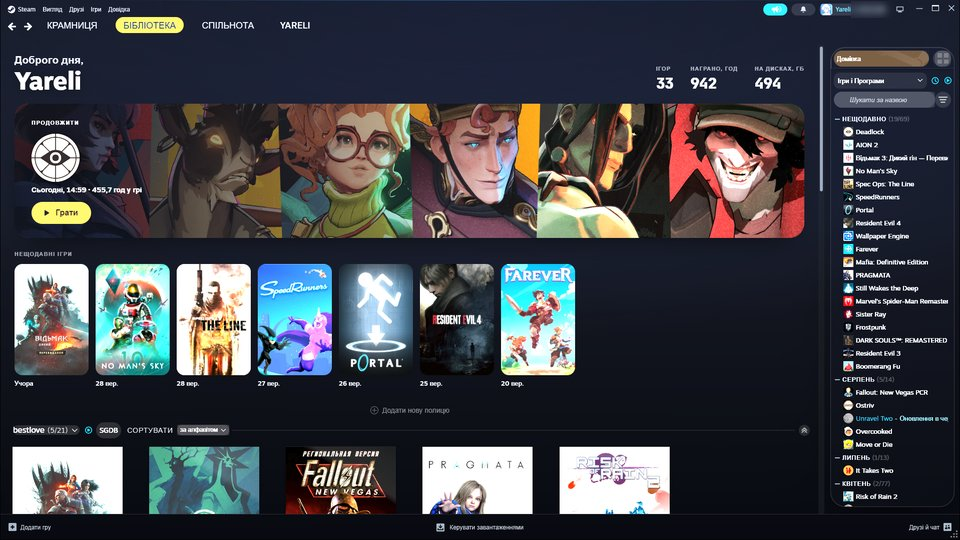
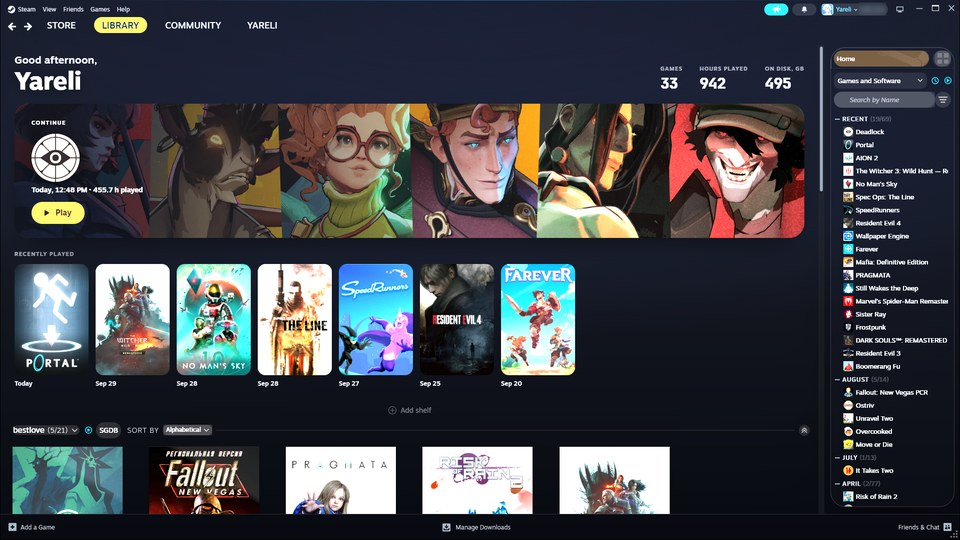
1.4.0: featured update card, screenshots from the English client
- Game page: the Featured update card kept Steam's blue ground and a blue
  border-image, which also held its corners square. Accent ground, thin
  neutral edge, the theme's radius.
- README, header and splash images re-shot with the client and the theme
  in English; wallet balance blurred.

diff --git a/css/steam.css b/css/steam.css
@@ -543,6 +543,16 @@ svg#arrowBase { background: var(--gd-field) !important; border-radius: 999px !im
 .PartnerEventFeaturedHeader {
   background: linear-gradient(to right, var(--gd-accent, var(--gd-house)), transparent 92%) !important;
 }
+/* The featured update card on a game page: Steam's blue comes twice — as the ground
+   under the blurred image and as a border-image, which also keeps the corners square. */
+.PartnerEventFeatured {
+  background-image: linear-gradient(to right,
+    color-mix(in srgb, var(--gd-accent, var(--gd-house)) 55%, #0c0e15), #10131c 70%) !important;
+  border-image: none !important;
+  border-color: rgba(255, 255, 255, .1) !important;
+  border-radius: var(--gd-r-md) !important;
+  overflow: hidden;
+}
 .CommunityItem.Blank { background: var(--gd-soft) !important; border-radius: var(--gd-r-md) !important; }
 
 /* ═══════════════ downloads ═══════════════ */

diff --git a/CHANGELOG.md b/CHANGELOG.md
@@ -12,12 +12,13 @@ Versions follow [semantic versioning](https://semver.org). The repository starts
 - Wishlist: a huge unstyled header with a menu button sat on top of the page. It is Steam's own in-client header, shown with or without the theme, and it is now hidden.
 - Library: the right-click menu on a game stayed in Steam's grey with a green Play row. It now matches the other menus.
 - Library: the card that appears when hovering a game gets rounded corners and the theme's dark ground.
+- Game page: the *Featured* update card kept Steam's blue frame and square corners.
 - Settings → Account: the three large tiles were stretched into ovals.
 - Friends list: the glow behind your name was a hard-edged ellipse. Steam's own soft glow is back.
 
 **Other**
 - Donate button for steambrew.app (Ko-fi).
-- Source comments are in English throughout.
+- Source comments are in English throughout, and the screenshots show the English client.
 
 ## 1.3.0 — 2026-09-30
 
